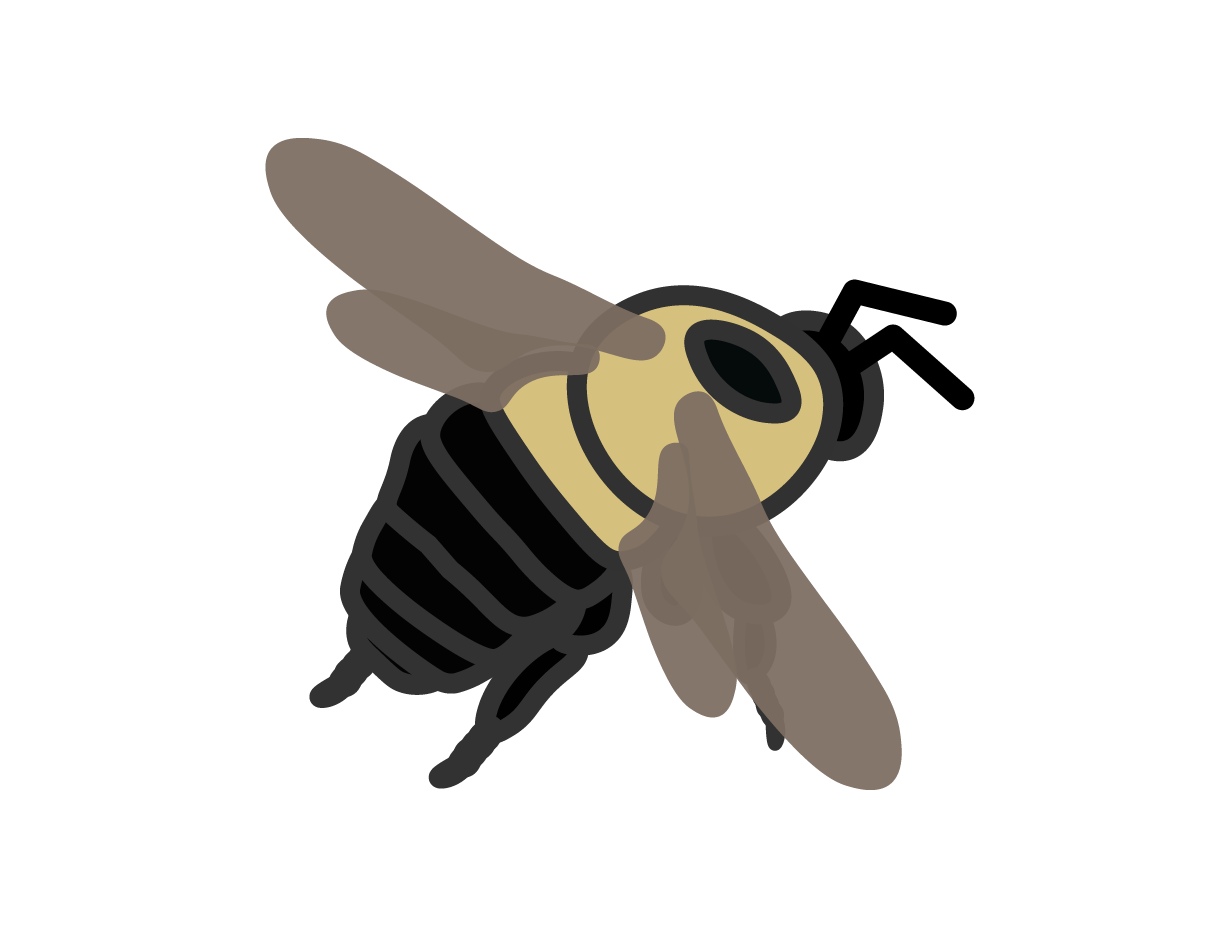
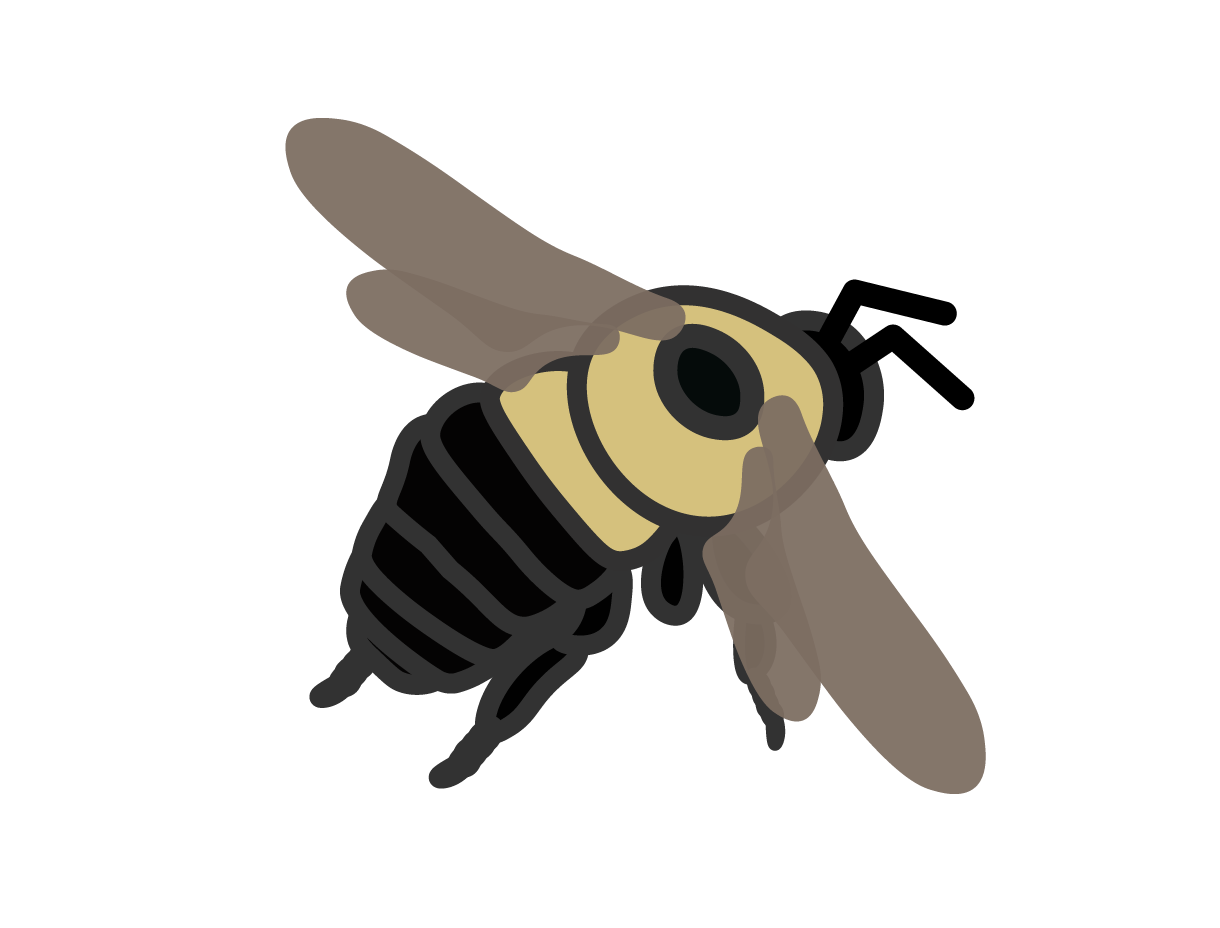
rebuilding site Thu Mar  5 14:54:56 PST 2020

Changed region(s): [[0.218, 0.125, 0.8098, 0.875]]

diff --git a/graphic_art/index.html b/graphic_art/index.html
@@ -201,6 +201,28 @@
 <div class="gallery caption-position-bottom caption-effect-slide hover-effect-zoom hover-transition" itemscope itemtype="http://schema.org/ImageGallery">
 				<div class="box">
 				  <figure itemprop="associatedMedia" itemscope itemtype="http://schema.org/ImageObject">
+				    <div class="img" style="background-image: url('/images/graphic_art/colony/bumble_anatomy_external.png');" >
+				      <img itemprop="thumbnail" src="/images/graphic_art/colony/bumble_anatomy_external.png" alt="Bumble anatomy external" />
+				    </div>
+			      <figcaption>
+		          <p>Bumble anatomy external</p>
+			      </figcaption>
+				    <a href="/images/graphic_art/colony/bumble_anatomy_external.png" itemprop="contentUrl"></a>
+				  </figure>
+				</div>
+				<div class="box">
+				  <figure itemprop="associatedMedia" itemscope itemtype="http://schema.org/ImageObject">
+				    <div class="img" style="background-image: url('/images/graphic_art/colony/bumble_anatomy_internal.png');" >
+				      <img itemprop="thumbnail" src="/images/graphic_art/colony/bumble_anatomy_internal.png" alt="Bumble anatomy internal" />
+				    </div>
+			      <figcaption>
+		          <p>Bumble anatomy internal</p>
+			      </figcaption>
+				    <a href="/images/graphic_art/colony/bumble_anatomy_internal.png" itemprop="contentUrl"></a>
+				  </figure>
+				</div>
+				<div class="box">
+				  <figure itemprop="associatedMedia" itemscope itemtype="http://schema.org/ImageObject">
 				    <div class="img" style="background-image: url('/images/graphic_art/colony/colony_insitu.png');" >
 				      <img itemprop="thumbnail" src="/images/graphic_art/colony/colony_insitu.png" alt="Colony insitu" />
 				    </div>
